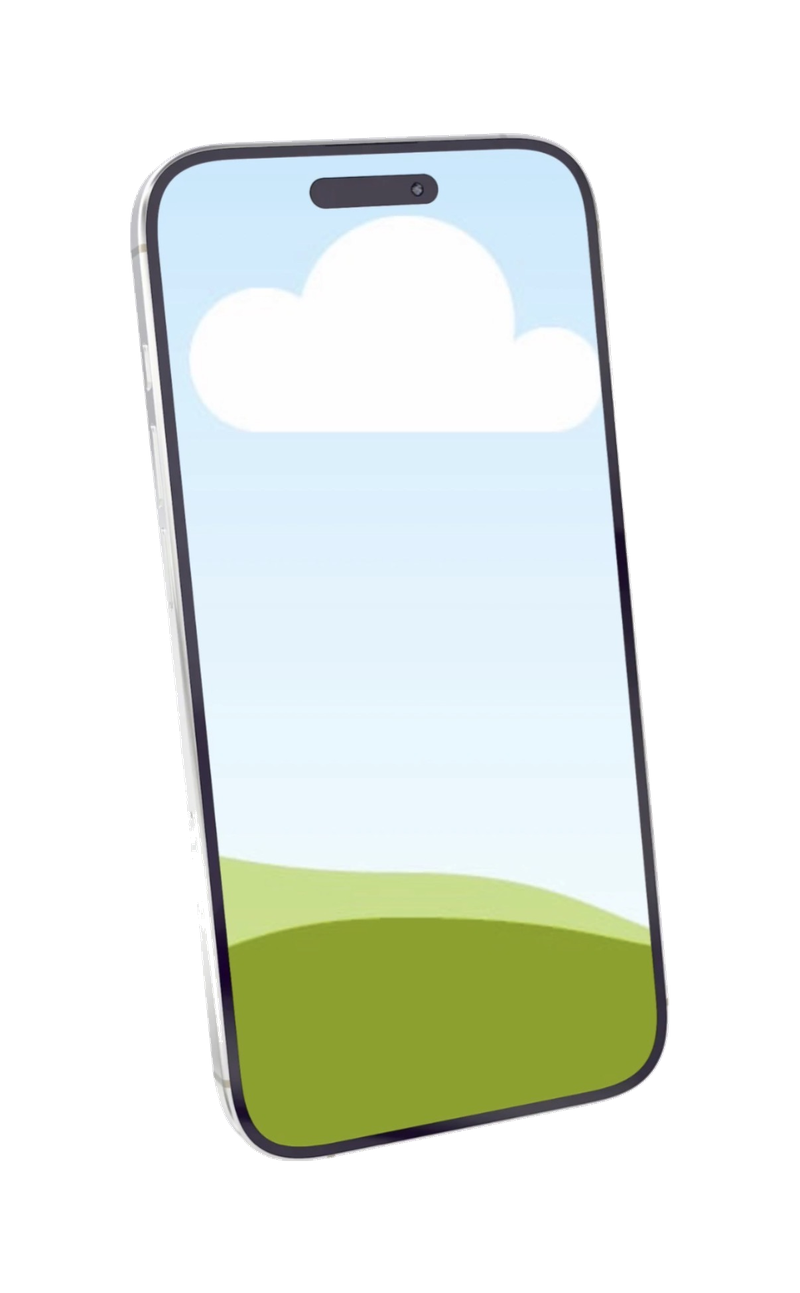
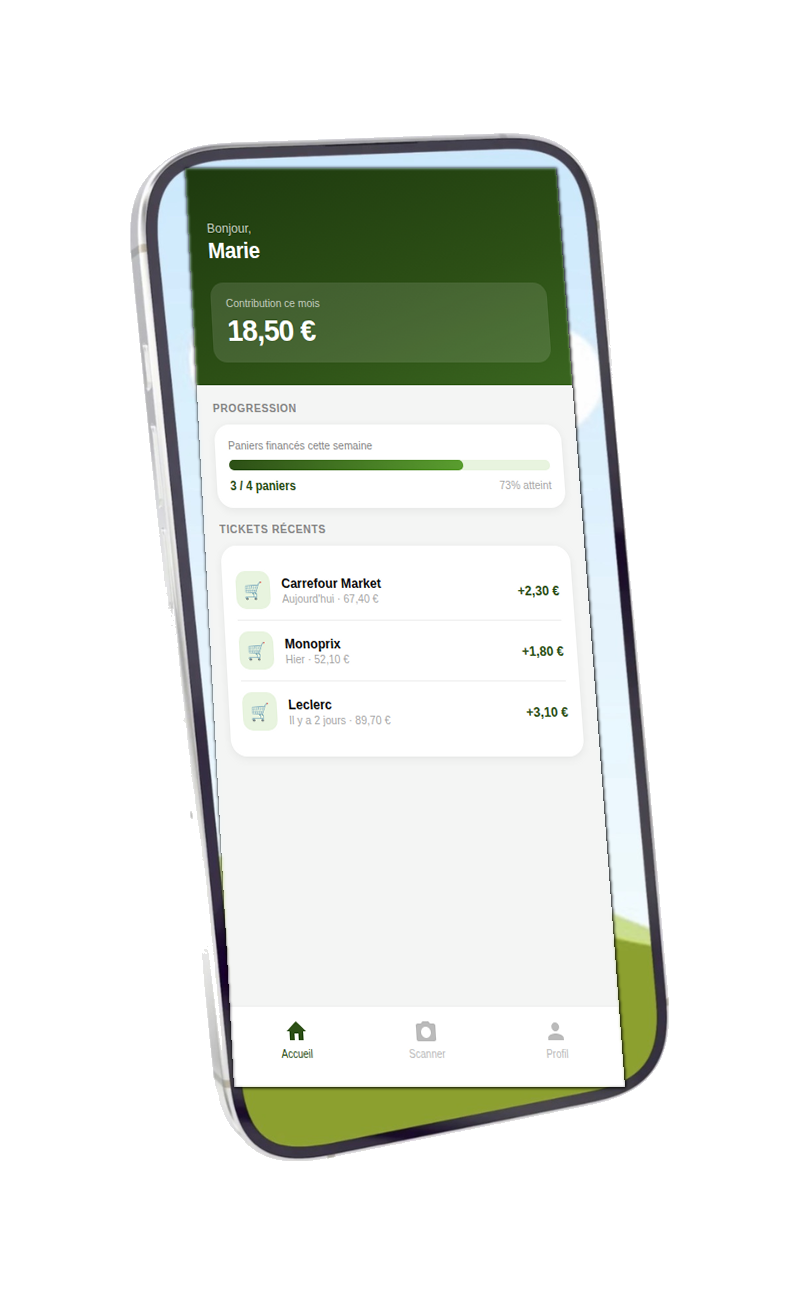
Fix phone mockup: composite app UI into screen, enlarge phone in hero
- Replace sky/cloud/grass wallpaper with actual app dashboard UI
  using direct polygon-mask compositing into the screen area
- Screen quad measured from pixel scan: TL(185,168) TR(556,168) BL(234,1087) BR(625,1087)
- BFS background removal for clean transparent PNG
- Hero: phone max-width 400px → 490px, grid column 420px → 500px
- Mobile: phone max-width 280px → 320px

Changed region(s): [[0.2188, 0.1237, 0.75, 0.5878], [0.25, 0.5878, 0.7812, 0.8662]]

diff --git a/index.html b/index.html
@@ -69,7 +69,7 @@
     }
     .hero-inner {
       max-width: 1200px; margin: 0 auto; width: 100%;
-      display: grid; grid-template-columns: 1fr 420px; gap: 80px; align-items: center;
+      display: grid; grid-template-columns: 1fr 500px; gap: 60px; align-items: center;
     }
     .hero-badge {
       display: inline-flex; align-items: center; gap: 8px;
@@ -119,7 +119,7 @@
       padding: 20px 0;
     }
     .phone-img {
-      width: 100%; max-width: 400px; max-height: 85vh;
+      width: 100%; max-width: 490px; max-height: 90vh;
       height: auto; object-fit: contain;
       display: block;
       filter: drop-shadow(0 32px 48px rgba(0,0,0,.18)) drop-shadow(0 8px 16px rgba(0,0,0,.10));
@@ -277,7 +277,7 @@
       .hero { padding: 100px 24px 60px; min-height: auto; }
       .hero-inner { grid-template-columns: 1fr; gap: 48px; }
       .phone-wrap { order: -1; padding: 0; }
-      .phone-img { max-width: 280px; max-height: 60vw; }
+      .phone-img { max-width: 320px; max-height: 70vw; }
       .steps-grid { grid-template-columns: 1fr; max-width: 480px; margin: 0 auto; }
       .roles-grid { grid-template-columns: 1fr; max-width: 480px; margin: 0 auto; }
       .impact-grid { grid-template-columns: 1fr; max-width: 400px; margin: 0 auto; }
